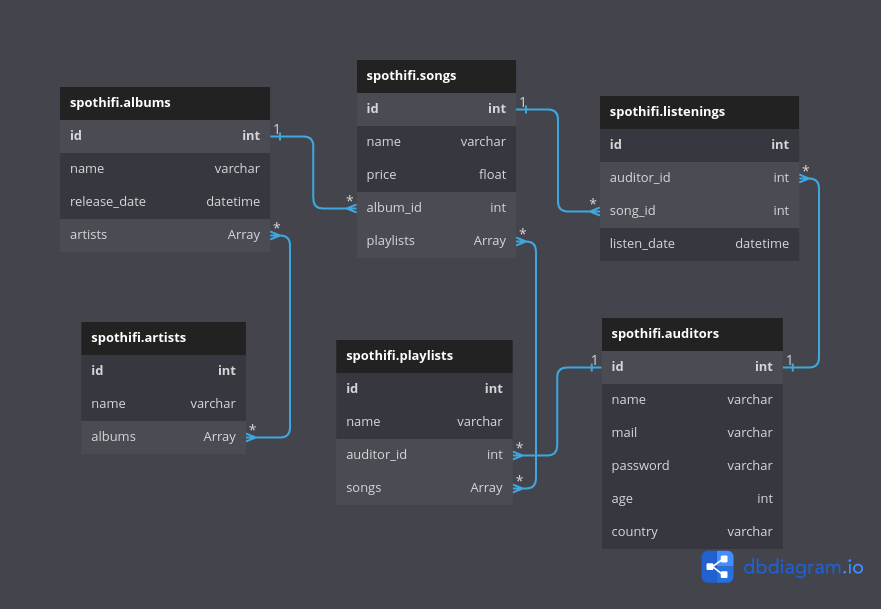
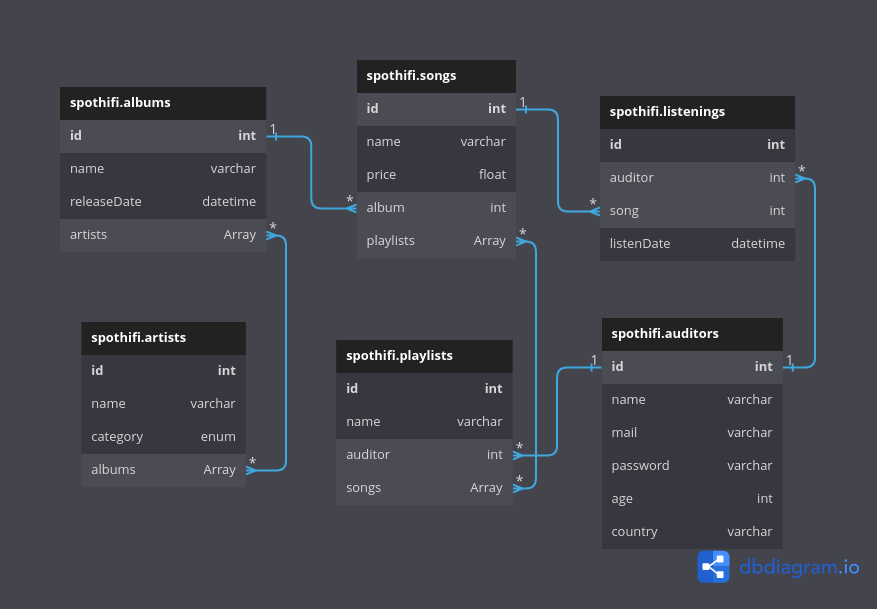
:sparkles: Models

diff --git a/app/models/ListeningModel.js b/app/models/ListeningModel.js
@@ -1,0 +1,34 @@
+const {Schema, model} = require('../../database');
+
+/**
+ * Entity of listening
+ * @typedef Listening
+ * @property {String} name
+ * @property {ObjectId} auditor
+ * @property {ObjectId} song
+ * @property {Date} listenDate
+ */
+const ListeningSchema = new Schema({
+    name: {
+        type: String,
+        required: true
+    },
+    auditor: {
+        type: Schema.Types.ObjectId,
+        ref: 'Auditor',
+        required: true
+    },
+    song: {
+        type: Schema.Types.ObjectId,
+        ref: 'Song',
+        required: true
+    },
+    listenDate: {
+        type: Date,
+        required: true
+    },
+});
+
+const Listening = model('Listening', ListeningSchema);
+
+module.exports = Listening;

diff --git a/app/models/AuditorModel.js b/app/models/AuditorModel.js
@@ -1,0 +1,36 @@
+const {Schema, model} = require('../../database');
+
+/**
+ * Entity of auditor
+ * @typedef Auditor
+ * @property {String} name
+ * @property {String} mail
+ * @property {String} password
+ * @property {Number} age
+ * @property {String} country
+ */
+const AuditorSchema = new Schema({
+    name: {
+        type: String,
+        required: true
+    },
+    mail: {
+        type: String,
+        required: true,
+        unique: true
+    },
+    password: {
+        type: String,
+        required: true
+    },
+    age: {
+        type: Number
+    },
+    country: {
+        type: String
+    },
+});
+
+const Auditor = model('Auditor', AuditorSchema);
+
+module.exports = Auditor;

diff --git a/app/models/SongModel.js b/app/models/SongModel.js
@@ -1,0 +1,33 @@
+const {Schema, model} = require('../../database');
+
+/**
+ * Entity of song
+ * @typedef Song
+ * @property {String} name
+ * @property {Number} price
+ * @property {ObjectId} album
+ * @property {ObjectId} playlists
+ */
+const SongSchema = new Schema({
+    name: {
+        type: String,
+        required: true
+    },
+    price: {
+        type: Number,
+        required: true
+    },
+    album: {
+        type: Schema.Types.ObjectId,
+        ref: 'Album',
+        required: true
+    },
+    playlists: [{
+        type: Schema.Types.ObjectId,
+        ref: 'Playlist'
+    }],
+});
+
+const Song = model('Song', SongSchema);
+
+module.exports = Song;

diff --git a/app/models/ArtistModel.js b/app/models/ArtistModel.js
@@ -1,0 +1,28 @@
+const {Schema, model} = require('../../database');
+
+/**
+ * Entity of artist
+ * @typedef Artist
+ * @property {String} name
+ * @property {String} category
+ * @property {ObjectId} albums
+ */
+const ArtistSchema = new Schema({
+    name: {
+        type: String,
+        required: true
+    },
+    category: {
+        type: String,
+        required: true,
+        enum: ["rap", "EDM", "rock", "classic", "punk", "jazz", "various", "pop", "rnb"]
+    },
+    albums: [{
+        type: Schema.Types.ObjectId,
+        ref: 'Albums'
+    }],
+});
+
+const Artist = model('Playlist', ArtistSchema);
+
+module.exports = Artist;

diff --git a/app/models/PlaylistModel.js b/app/models/PlaylistModel.js
@@ -1,0 +1,28 @@
+const {Schema, model} = require('../../database');
+
+/**
+ * Entity of playlist
+ * @typedef Playlist
+ * @property {String} name
+ * @property {ObjectId} auditor
+ * @property {ObjectId} songs
+ */
+const PlaylistSchema = new Schema({
+    name: {
+        type: String,
+        required: true
+    },
+    auditor: {
+        type: Schema.Types.ObjectId,
+        ref: 'Auditor',
+        required: true
+    },
+    songs: [{
+        type: Schema.Types.ObjectId,
+        ref: 'Song'
+    }],
+});
+
+const Playlist = model('Playlist', PlaylistSchema);
+
+module.exports = Playlist;

diff --git a/app/models/AlbumModel.js b/app/models/AlbumModel.js
@@ -1,0 +1,27 @@
+const {Schema, model} = require('../../database');
+
+/**
+ * Entity of album
+ * @typedef Album
+ * @property {String} name
+ * @property {Date} releaseDate
+ * @property {ObjectId} artists
+ */
+const AlbumSchema = new Schema({
+    name: {
+        type: String,
+        required: true
+    },
+    releaseDate: {
+        type: Date,
+        required: true
+    },
+    artists: [{
+        type: Schema.Types.ObjectId,
+        ref: 'Artist'
+    }],
+});
+
+const Album = model('Album', AlbumSchema);
+
+module.exports = Album;
